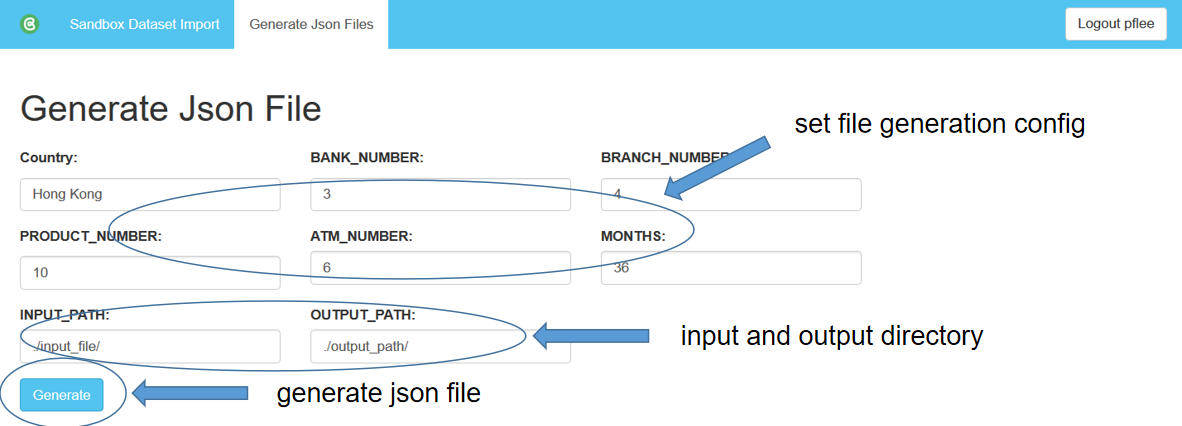
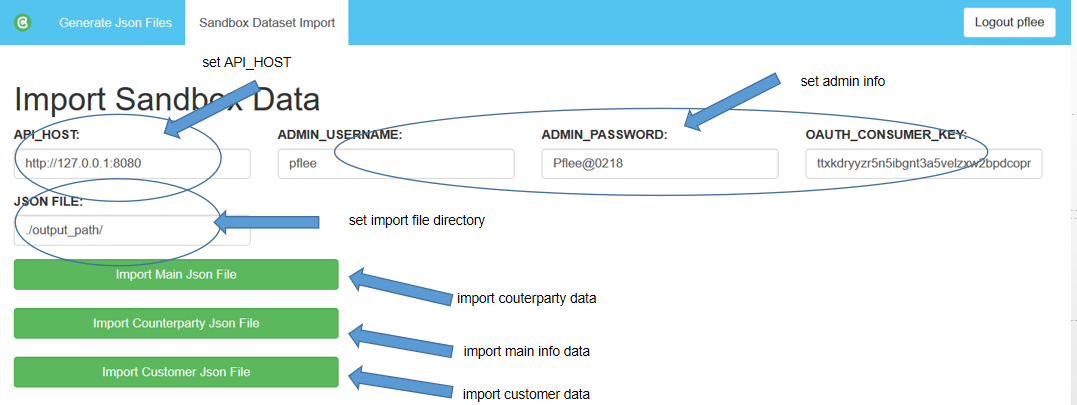
Initialization

Changed region(s): [[0.0, 0.1778, 0.9805, 1.0], [0.0, 0.0, 1.0, 0.1185], [0.1838, 0.1185, 0.2758, 0.1778]]

diff --git a/OBP-Sandbox-Generator-Interface/runtests/static/runtests/js/runtests.js b/OBP-Sandbox-Generator-Interface/runtests/static/runtests/js/runtests.js
@@ -34,12 +34,14 @@ $(function() {
 		consumer_key = $('.runner').find('input[name="consumer_key"]').val();
 		username = $('.runner').find('input[name="username"]').val();
 		password = $('.runner').find('input[name="password"]').val();
+		output_file = $('.runner').find('input[name="output_path"]').val();
 
 		$.post('/runtests/import_json', {
 			'api_host': api_host,
 			'consumer_key': consumer_key,
 			'username': username,
 			'password': password,
+			'output_file': output_file,
 			'csrfmiddlewaretoken': window.CSRF
 		}, function (response) {
 			alert("Update Successfully");
@@ -51,12 +53,14 @@ $(function() {
 		consumer_key = $('.runner').find('input[name="consumer_key"]').val();
 		username = $('.runner').find('input[name="username"]').val();
 		password = $('.runner').find('input[name="password"]').val();
+		output_file = $('.runner').find('input[name="output_path"]').val();
 
 		$.post('/runtests/import_counterparty', {
 			'api_host': api_host,
 			'consumer_key': consumer_key,
 			'username': username,
 			'password': password,
+			'output_file': output_file,
 			'csrfmiddlewaretoken': window.CSRF
 		}, function (response) {
 			alert("Update Successfully");
@@ -68,12 +72,14 @@ $(function() {
 		consumer_key = $('.runner').find('input[name="consumer_key"]').val();
 		username = $('.runner').find('input[name="username"]').val();
 		password = $('.runner').find('input[name="password"]').val();
+		output_file = $('.runner').find('input[name="output_path"]').val();
 
 		$.post('/runtests/import_customer', {
 			'api_host': api_host,
 			'consumer_key': consumer_key,
 			'username': username,
 			'password': password,
+			'output_file': output_file,
 			'csrfmiddlewaretoken': window.CSRF
 		}, function (response) {
 			alert("Update Successfully");

diff --git a/OBP-Sandbox-Generator-Interface/runtests/templates/runtests/data_import.html b/OBP-Sandbox-Generator-Interface/runtests/templates/runtests/data_import.html
@@ -34,6 +34,13 @@
                     <input class="form-control" type="text" name="consumer_key" size="10" value="{{ mappings.OAUTH_CONSUMER_KEY }}">
                 </div>
             </div>
+
+            <div class="col-xs-12 col-sm-6 col-md-3">
+                <div class="form-group">
+                    <label>JSON FILE:</label>
+                    <input class="form-control" type="text" name="output_path" size="10" value="{{ mappings.OUTPUT_PATH }}">
+                </div>
+            </div>
         </div>
 
         <div class="row">

diff --git a/OBP-Sandbox-Generator-Interface/runtests/views.py b/OBP-Sandbox-Generator-Interface/runtests/views.py
@@ -510,6 +510,7 @@ class DataImportView(LoginRequiredMixin, TemplateView):
             'ADMIN_USERNAME':settings.ADMIN_USERNAME,
             'ADMIN_PASSWORD':settings.ADMIN_PASSWORD,
             'OAUTH_CONSUMER_KEY':settings.OAUTH_CONSUMER_KEY,
+            'OUTPUT_PATH':settings.OUTPUT_PATH,
         }
 
         context.update({
@@ -669,12 +670,13 @@ def ImportJson(request):
     consumer_key = request.POST.get('consumer_key')
     adminUserUsername = request.POST.get('username')
     adminPassword = request.POST.get('password')
+    output_file = request.POST.get('output_file')
 
     from object.Admin import Admin
     admin_user = Admin(adminUserUsername, adminPassword, consumer_key)
     session = admin_user.direct_login(api_host)
 
-    file_json = Admin.load(settings.FILE_ROOT+"sandbox_pretty.json")
+    file_json = Admin.load(output_file+"sandbox_pretty.json")
     url = api_host+"/obp/v3.0.0/sandbox/data-import"
     result2 = session.request('POST', url, json=file_json, verify=settings.VERIFY)
     admin_user.oauth_logout()
@@ -688,14 +690,15 @@ def ImportJson(request):
 def ImportCounterparty(request):
     api_host = request.POST.get('api_host')
     consumer_key = request.POST.get('consumer_key')
+    output_file = request.POST.get('output_file')
 
     from objects.Admin import Admin
     from objects.PostCounterparty import PostCounterparty
-    json_object_counterparty= PostCounterparty.load(settings.FILE_ROOT+"counterparty_pretty.json")
+    json_object_counterparty= PostCounterparty.load(output_file+"counterparty_pretty.json")
 
     counterparty_list = [val for sublist in json_object_counterparty for val in sublist]
 
-    json_object_user=Admin.load(settings.FILE_ROOT+"sandbox_pretty.json")
+    json_object_user=Admin.load(output_file+"sandbox_pretty.json")
 
     for user_dict in json_object_user['users']:
         user = Admin(user_dict['user_name'], user_dict['password'], consumer_key)
@@ -779,9 +782,10 @@ def ImportCustomer(request):
     consumer_key = request.POST.get('consumer_key')
     adminUserUsername = request.POST.get('username')
     adminPassword = request.POST.get('password')
+    output_file = request.POST.get('output_file')
 
-    from object.PostCustomer import PostCustomer
-    json_customers = PostCustomer.load(settings.FILE_ROOT+"/customers_pretty.json")
+    from objects.PostCustomer import PostCustomer
+    json_customers = PostCustomer.load(output_file+"customers_pretty.json")
 
     print("Got {} records".format(len(json_customers)))
 
@@ -805,7 +809,7 @@ def ImportCustomer(request):
 
     from objects.Admin import Admin
     from objects.Bank_Import import Bank_Import
-    json_user = Admin.load(settings.FILE_ROOT+"sandbox_pretty.json")
+    json_user = Admin.load(output_file+"sandbox_pretty.json")
     print("Got {} users".format(len(json_user['users'])))
 
     print("login as user: ")

diff --git a/README.md b/README.md
@@ -39,8 +39,22 @@ $ source ../venv/bin/activate
 ```
 
 ## Conifguration
-### Configure api host
+### Configure file generation settings
+In the settings.py, you can set default values of related parameters. You can also set these parameters in web page.
+```bash
+INPUT_PATH = "./input_file/"
+DATASET_PATH = "{}dataset.xlsx".format(INPUT_PATH)
+OPTIONS_PATH = "{}options.xlsx".format(INPUT_PATH)
 
+MONTHS = 36
+BANK_NUMBER=3
+BRANCH_NUMBER=4
+ATM_NUMBER=6
+PRODUCT_NUMBER=10
+COUNTRY='Hong Kong'
+```
+### Configure api host
+In the settings.py, you can set default values of related parameters. You can also set these parameters in web page.
 The application's authentication is API-driven. However, to make use of Django's authentication framework, sessions and to store test configurations, the system requires a database. Here is an example for PostgreSQL:
 
 ```bash
@@ -66,39 +80,6 @@ FILE_ROOT = "./output_path/"
 OUTPUT_PATH = './output_path/'
 ```
 
-
-### Configure file generation settings
-
-```bash
-REDIRECT_URL = 'http://127.0.0.1:9090'
-OAUTH_CONSUMER_KEY = '*'
-OAUTH_CONSUMER_SECRET = '*'
-
-DATABASES = {
-    'default': {
-        'ENGINE': 'django.db.backends.postgresql_psycopg2',
-        'NAME': '*',
-        'USER': '*',
-        'PASSWORD': '*',
-        'HOST': '*',
-        'PORT': '*',
-    }
-}
-
-
-ADMIN_USERNAME = "*"
-ADMIN_PASSWORD = "*"
-FILE_ROOT = "./output_path/"
-OUTPUT_PATH = './output_path/'
-```
-
-## Initialise database
-
-```bash
-(venv)$ ./apitester/manage.py migrate
-```
-
-
 ## Run the app
 
 ```bash
@@ -112,70 +93,15 @@ The application should be available at `http://localhost:9090`.
 ### Import Data Page
 ![alt text](./Image/page1.PNG "Import sandbox data")
 
-You need to prepare branches.xlsx, counterparties.xlsx, dataset.xlsx and options.xlsx. branches.xlsx involves
-## Static files
+You need to prepare dataset file: counterparties.xlsx, dataset.xlsx and options.xlsx. Sandbox data is picked 
+randomly from these dataset and generated to sandbox data. These files can be assigned in generation page.
+- counterparties.xlsx is dataset of counterparties information. Columns are type, counterparty_name	example_reference, 
+typical_value, typical_frequency, counterparty_logo, counterparty_homepage
+- dataset.xlsx is  dataset of main information, including branches, atms, products, currency
+- options.xlsx has user behavior dataset.
 
-The app's static files, e.g. Javascript, CSS and images need to be collected and made available to a webserver. Run
-
-```bash
-(venv)$ ./apitester/manage.py collectstatic
-```
-
-The output will show where they are collected to (`settings.STATIC_ROOT`).
-
-
-## Web application server
-
-Instead of Django's built-in runserver, you need a proper web application server to run the app, e.g. `gunicorn`. It should have been installed already as a dependency and you can use the provided `gunicorn.conf.py`. Run it like
-
-```bash
-(venv)$ cd apitester/ && gunicorn --config ../gunicorn.conf.py apitester.wsgi 
-```
-
-- `gunicorn` does not start successfully when omitting the directory change and using `apitester.apitester.wsgi` as program.
-- The app's output is logged to `gunicorn`'s error logfile (see `gunicorn.conf.py` for location)
-
-
-## Process control
-
-If you do not want to start the web application server manually, but automatically at boot and also want to restart automatically if it dies, a process control system comes in handy. This package provides configuration files for systemd and supervisor.
-
-### systemd
-
-Stick the provided file `apitester.service` into `/etc/systemd/system/`, edit to suit your installation and start the application (probably as root):
-
-```bash
-# /bin/systemctl start apitester
-```
-
-If it works properly, you might want it to be started at boot:
-
-```bash
-# /bin/systemctl enable apitester
-```
-
-If you need to edit the service file afterwards, it needs to be reloaded as well as the service
-```bash
-# /bin/systemctl daemon-reload
-# /bin/systemctl restart apitester
-```
-
-### supervisor
-
-Stick the provided file `supervisor.apitester.conf` into `/etc/supervisor/conf.d/`, edit to suit your installation and restart supervisor (probably as root):
-
-```bash
-# /bin/systemctl restart supervisor
-```
-
-
-## Webserver
-
-Finally, use a webserver like `nginx` or `apache` as a frontend. It serves static files from the directory where `collectstatic` puts them and acts as a reverse proxy for gunicorn. Stick the provided `nginx.apitester.conf` into `/etc/nginx/sites-enabled/`, edit it and reload the webserver (probably as root):
-
-```bash
-# /bin/systemctl reload nginx
-```
+The output will be three files in output dir which is assigned in generation page. sandbox_pretty.json, 
+counterparty_pretty.json, customers_pretty.json
 
 
 
@@ -196,31 +122,7 @@ Before being able to use `DirectLogin`, the user needs to create a consumer at t
 
 For `GatewayLogin` to work, the user's provider has to be set to `Gateway` in field `resourceuser`.`provider_` in the database. The user also needs to know the pre-shared secret between the gateway and the API.
 
-
-
-# Management
-
-The app should tell you if your logged in user does not have the proper role to execute the management functionality you need. Please use a Super Admin user to login at an API Manager instance or API Explorer and set roles accordingly. To become Super Admin, set the property `super_admin_user_ids` in the API properties file accordingly.
-
-# Usage
-
-1) Login as the user that you will execute the tests as.
-
-2) Create a "profile". 
-
-Enter the API version (e.g. 3.1.0) that you want to test and values for commonly used fields. These values will be used as the defaults in urls and POST bodies but you can change the values for each URL.
-
-3) Save the profile. This will generate tests for every endpoint in the version you specified.
-
-4) Now you can change the URLs / POST bodies and Test each endpoint, all or the selected endpoints.
-
 Note: 
-
-You can change the order in which tests are run.
-
-A user can have multiple test profiles.
-
-
 
 Please submit an issue on GitHub if something bugs you! 
 
